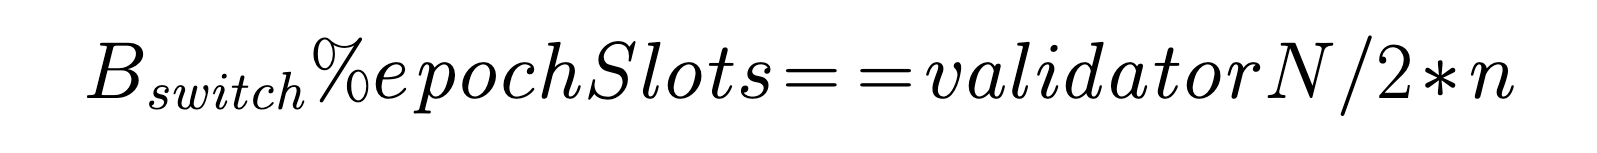
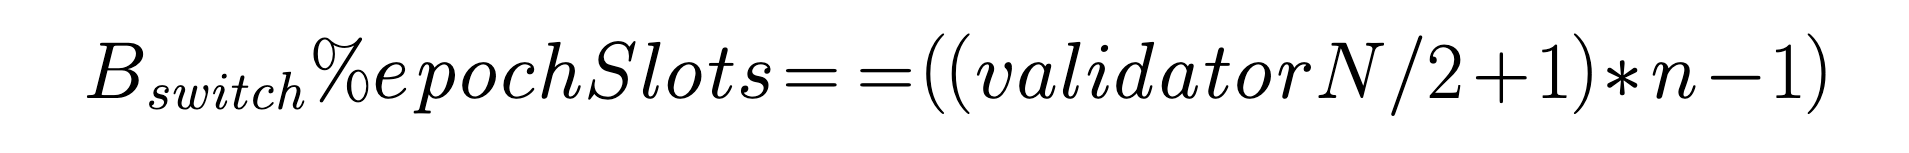
change the length of block history to check

Changed region(s): [[0.0307, 0.2353, 0.9818, 0.7582], [0.4909, 0.2092, 0.5216, 0.2876], [0.4909, 0.6797, 0.5216, 0.732]]

diff --git a/BEPs/BEP-341.md b/BEPs/BEP-341.md
@@ -76,11 +76,11 @@ Each epoch predefines a set of validators, with a total of validatorN validators
 #### 4.2.2 Validator Set Switch 
 Each epoch will choose a new validator set, assuming an epoch contains epochSlots slots. The validator set switch occurs only when the block height reaches Bswitch to prevent epoch block forging. The calculation of Bswitch is as follows:
 <div align="center">
-<img src=./assets/bep-341/4.2.2.png width=48% />
+<img src=./assets/bep-341/4.2.2.png width=56% />
 </div>
 
 #### 4.2.3 Block Avoidance
-To prevent fewer than 1/2 of the nodes from controlling the entire network, block producers are required to produce fewer than n blocks within the previous validatorN/2\*n historical blocks.
+To prevent fewer than 1/2 of the nodes from controlling the entire network, block producers are required to produce fewer than n blocks within the previous ((validatorN/2+1)\*n-1) historical blocks.
 
 #### 4.2.4 Governable Number of Consecutive Blocks
 When n=1, it is equivalent to disabling the feature of consecutive block production, while significant optimization is observed when n belongs to the range [3,5]. Currently, the range for the value of n is set to [1,9] but except 2.
@@ -107,7 +107,7 @@ This BEP relies on BSC's Fast Finality feature. If Fast Finality fails, it may r
 ## 7. Liveness Analysis
 The liveness of the chain remains unchanged, meaning it is required to ensure that at least (validatorN/2+1) validators are active. The proof is as follows:
 
-Given that (validatorN/2+1) validators are active, and at a certain moment none of them are allowed to produce blocks, then each validator must have produced at least n blocks within the past validatorN/2\*n blocks. Thus, collectively, within the past validatorN/2\*n blocks, there must have been at least (validatorN/2+1)\*n blocks produced, which is impossible. Therefore, at any given moment, at least one node from the set of (validatorN/2+1) must be allowed to produce blocks.
+If (validatorN/2+1) validators are active and none are allowed to produce blocks at a certain moment, each validator must have produced at least n blocks in the past ((validatorN/2+1)\*n-1) blocks. Thus, collectively, at least (validatorN/2+1)\*n blocks must have been produced, which is impossible. Therefore, at any moment, at least one of the (validatorN/2+1) validators must be allowed to produce blocks.
 
 ## 8. License
 The content is licensed under [CC0](https://creativecommons.org/publicdomain/zero/1.0/).
